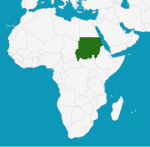
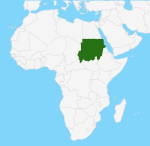
fix: fix some mistake

diff --git a/rs-clone/src/application/pages/quizzes/population-quiz/component.ts b/rs-clone/src/application/pages/quizzes/population-quiz/component.ts
@@ -1,8 +1,6 @@
 import { Icountry } from '../../../components/countries/data';
 import { drawChart } from '../../../components/maps/geoChart';
 import { createOurElement } from '../../../patterns/createElement';
-// import { QuizName } from '../../../server/server-api';
-// import { QuizResult } from '../quizzesResults';
 import { playAudio, rightAnswAudio, wrongAnswAudio } from '../../../../application/components/sound/sound';
 
 export class PopulationQuestion {
@@ -31,7 +29,7 @@ export class PopulationQuestion {
             region: this.code,
             colorAxis: { colors: ['blue', 'orange', 'green'] },
             legend: 'none',
-            backgroundColor: '#81d4fa',
+            backgroundColor: '#6bcbd1',
         });
 
         setTimeout(() => {
@@ -74,7 +72,7 @@ export class PopulationQuestion {
                         answers.find((el) => el.countryRu === btn.innerText || el.countryEn === btn.innerText)
                             ?.population
                     ) / 1000000
-                ).toFixed(2);
+                ).toFixed(0);
 
                 btn.innerText += ` ${rightPopulation} млн`;
                 return isRight;

diff --git a/rs-clone/src/application/patterns/translation.ts b/rs-clone/src/application/patterns/translation.ts
@@ -98,7 +98,7 @@ export const i18Obj = {
         численности населения,</li>
         <li>благодаря викторине <b>"Угадай страну по флагу"</b> вы легко изучите флаги  стран мира.</li>
         </ul>
-        <p class="main__text_p1">Также вы сможете отслеживать свой прогресс изучения зарегистрировавшись в личном кабинете.</p>
+        <p class="main__text_p1">Также вы сможете отслеживать свой прогресс изучения, зарегистрировавшись в личном кабинете.</p>
         <p class="main__text_p">Весь мир открыт для Вас!</p>
        `,
         'Регистрация': 'Регистрация',

diff --git a/rs-clone/src/application/pages/quizzes/population-quiz/page.ts b/rs-clone/src/application/pages/quizzes/population-quiz/page.ts
@@ -37,8 +37,10 @@ export class PopulationQuizPage extends Page {
     private generateData() {
         const countriesOnMap = [];
         let arrayCopy = this.countriesArr.slice(0);
-        if (this.code === codes.america || this.code === codes.world || this.code === codes.africa) {
+        if (this.code === codes.america || this.code === codes.africa) {
             arrayCopy = arrayCopy.filter((el) => el.area > 100000);
+        } else if (this.code === codes.world) {
+            arrayCopy = arrayCopy.filter((el) => el.area > 300000);
         }
         for (let i = 0; i < 3; i++) {
             const randomIndex = Math.floor(Math.random() * arrayCopy.length);

diff --git a/rs-clone/src/application/pages/quizzes/country-quiz/page.ts b/rs-clone/src/application/pages/quizzes/country-quiz/page.ts
@@ -89,7 +89,7 @@ export class CountryQuiz extends Page {
         drawChart(geoChartWrap, country, 'countries', {
             region: this.regionCode,
             // magnifyingGlass: { enable: true, zoomFactor: 1 },
-            backgroundColor: '#0D98BA',
+            backgroundColor: '#6bcbd1',
             enableRegionInteractivity: false,
         });
 

diff --git a/rs-clone/src/application/pages/quizzes/flags-quiz/flags.ts b/rs-clone/src/application/pages/quizzes/flags-quiz/flags.ts
@@ -234,7 +234,7 @@ export class QuizFlag extends Page {
             })
         );
 
-        drawChart(wrap, newArr, 'flag', { region: this.code, backgroundColor: '#81d4fa' });
+        drawChart(wrap, newArr, 'flag', { region: this.code, backgroundColor: '#6bcbd1' });
         this.addMapListener(nextBtn, wrongWorld, rightWorld);
     }
 }
